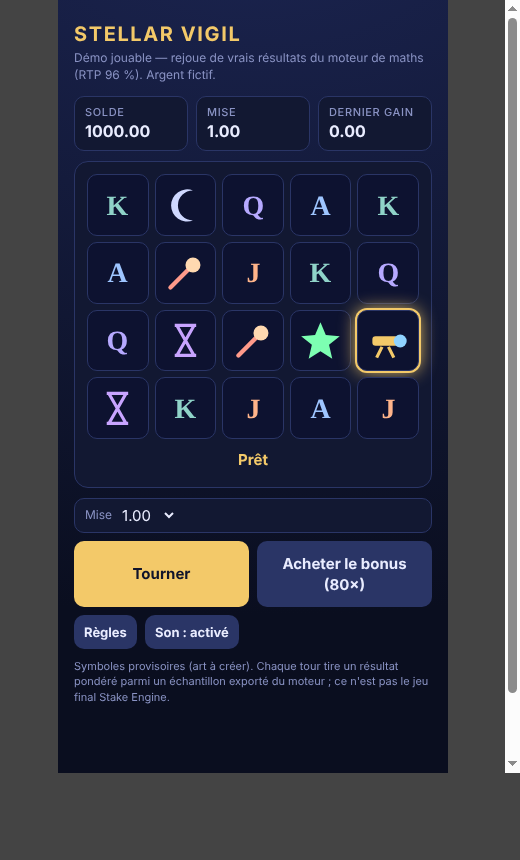
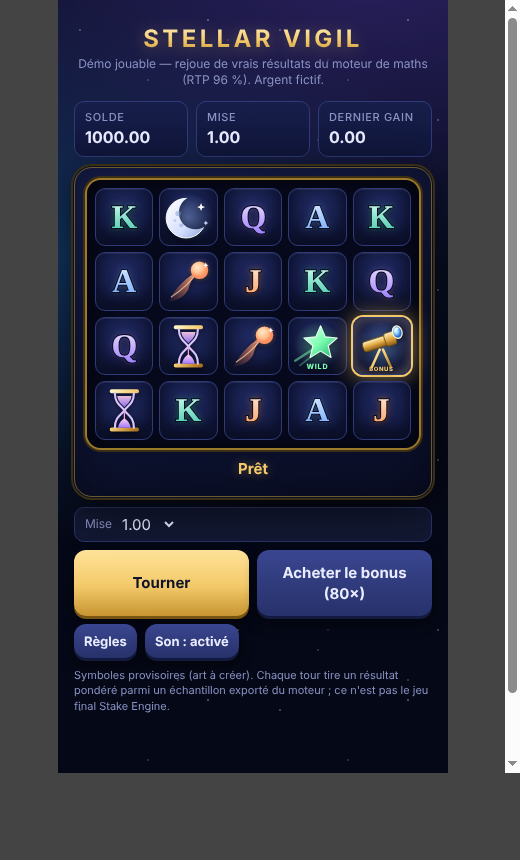
Demo: redesigned 2D art (gradient symbols, starfield, golden reel frame, drop animation, metallic wheel)
Claude-Session: https://claude.ai/code/session_01QhCfkmPEuKu1oz7J2mMLDx

Changed region(s): [[0.1231, 0.0302, 0.8615, 0.8465]]

diff --git a/demo/index.html b/demo/index.html
@@ -43,6 +43,8 @@
   .wheelbox.hidden{display:none}
   .wheelwrap{position:relative;width:min(70vw,260px);height:min(70vw,260px)}
   #wheelsvg{width:100%;height:100%;transition:transform 3.2s cubic-bezier(.12,.75,.12,1)}
+  .wheelwrap .hub{position:absolute;inset:0;width:100%;height:100%;pointer-events:none}
+  .wheelwrap{filter:drop-shadow(0 6px 18px #000c)}
   .pointer{position:absolute;left:50%;top:-10px;transform:translateX(-50%);width:0;height:0;border-left:11px solid transparent;border-right:11px solid transparent;border-top:20px solid var(--gold);filter:drop-shadow(0 0 6px var(--gold));z-index:2}
   .wheeltitle{font-weight:800;color:var(--gold);letter-spacing:.06em;text-transform:uppercase;margin-bottom:14px}
   .wheelmsg{min-height:44px;margin-top:14px;font-weight:700}
@@ -56,6 +58,32 @@
   .tools{display:flex;gap:8px;margin-top:8px}
   .tools button{flex:0 0 auto;padding:8px 12px;font-size:13px}
   html,body{max-width:100%;overflow-x:hidden}
+  body{background:radial-gradient(900px 520px at 80% -5%,#2a2160 0%,transparent 60%),radial-gradient(700px 480px at 0% 30%,#12335c 0%,transparent 60%),linear-gradient(#070b1d,#050816 70%);background-attachment:fixed}
+  body::before,body::after{content:"";position:fixed;inset:0;pointer-events:none;z-index:0;background-repeat:repeat}
+  body::before{background-image:radial-gradient(1.2px 1.2px at 22px 30px,#fff,transparent),radial-gradient(1px 1px at 90px 80px,#cfe3ff,transparent),radial-gradient(1.4px 1.4px at 150px 20px,#fff,transparent),radial-gradient(1px 1px at 60px 140px,#ffe9b0,transparent),radial-gradient(1.2px 1.2px at 180px 120px,#fff,transparent);background-size:200px 170px;opacity:.55;animation:tw 5s ease-in-out infinite alternate}
+  body::after{background-image:radial-gradient(1px 1px at 40px 60px,#fff,transparent),radial-gradient(1.6px 1.6px at 120px 110px,#bfe0ff,transparent),radial-gradient(1px 1px at 170px 40px,#fff,transparent);background-size:230px 190px;opacity:.35;animation:tw 7s ease-in-out infinite alternate-reverse}
+  @keyframes tw{from{opacity:.2}to{opacity:.75}}
+  .wrap{position:relative;z-index:1}
+  h1{font-size:24px;letter-spacing:.14em;background:linear-gradient(#fff3c4,#f3c969 55%,#b9852b);-webkit-background-clip:text;background-clip:text;color:transparent;text-shadow:none;filter:drop-shadow(0 2px 8px #f3c96955);text-align:center;margin:6px 0 0}
+  .sub{text-align:center}
+  .stage{background:linear-gradient(160deg,#171f4d 0%,#0d1230 55%,#0a0e26 100%);border:1px solid #6b5a2e;box-shadow:0 0 0 1px #0b0f25,0 0 0 3px #3a2f14,0 10px 40px #000a,inset 0 0 40px #0006;border-radius:18px}
+  #base{padding:8px;border-radius:14px;background:#06091c;box-shadow:inset 0 0 22px #000c,0 0 0 2px #9c7a2c,0 0 0 4px #3a2f14}
+  .cell{background:radial-gradient(circle at 50% 35%,#222c66 0%,#10163a 70%);border:1px solid #2f3a78;box-shadow:inset 0 1px 0 #ffffff14,inset 0 -8px 14px #0006}
+  .sky .cell{background:radial-gradient(circle at 50% 40%,#0f1a45 0%,#070a1c 75%);border-color:#1f2a5c}
+  .cell svg{filter:drop-shadow(0 2px 3px #000a);width:90%!important;height:90%!important}
+  @keyframes drop{0%{transform:translateY(-55%) scale(.9);opacity:0;filter:blur(3px)}60%{transform:translateY(6%);opacity:1;filter:blur(0)}100%{transform:none}}
+  .cell.drop svg,.cell.drop .star{animation:drop .42s cubic-bezier(.2,.8,.3,1) both;animation-delay:var(--d,0ms)}
+  .cell.win{box-shadow:0 0 0 2px var(--win),0 0 22px #7dffb2aa,inset 0 0 14px #7dffb255}
+  .cell.scat{box-shadow:0 0 0 2px var(--gold),0 0 22px #f3c969aa,inset 0 0 14px #f3c96955}
+  .star small{text-shadow:0 1px 3px #000,0 0 6px #8fd3ff}
+  .star{animation:pop .35s ease-out}
+  .star svg{filter:drop-shadow(0 0 7px #8fd3ffcc)}
+  button{background:linear-gradient(#ffe39a,#f3c969 55%,#c89532);box-shadow:0 3px 0 #7a5614,0 6px 14px #0008;border-radius:12px}
+  button.alt{background:linear-gradient(#3a4690,#27316a);box-shadow:0 3px 0 #141a3d,0 6px 14px #0008;color:#e9ecff}
+  button:active{transform:translateY(2px);box-shadow:0 1px 0 #7a5614}
+  .hud div{background:linear-gradient(#171e4a,#10163a);border-color:#2f3a78}
+  .zone{background:linear-gradient(#141b44,#0d1230)}
+  .banner{text-shadow:0 0 12px #f3c96966}
   .hud div{min-width:0}
   .hud span{font-size:16px}
   .ctl{flex-wrap:wrap}
@@ -65,6 +93,7 @@
   .zone{min-width:0;font-size:10px;padding:6px 3px}
   .zone b{font-size:12px}
   .note{overflow-wrap:anywhere}
+  .still *,.still body::before,.still body::after{animation:none!important;transition:none!important}
   .hidden{display:none}
 </style>
 </head>
@@ -87,7 +116,7 @@
     <div class="banner" id="banner">Prêt</div>
     <div class="wheelbox hidden" id="wheelbox">
       <div class="wheeltitle">Roue de sauvegarde</div>
-      <div class="wheelwrap"><div class="pointer"></div><svg id="wheelsvg" viewBox="-100 -100 200 200"></svg></div>
+      <div class="wheelwrap"><div class="pointer"></div><svg id="wheelsvg" viewBox="-100 -100 200 200"></svg><svg class="hub" viewBox="-100 -100 200 200"><defs><linearGradient id="rim" x1="0" y1="0" x2="1" y2="1"><stop offset="0" stop-color="#fff3c4"/><stop offset=".5" stop-color="#f3c969"/><stop offset="1" stop-color="#8a5a14"/></linearGradient></defs><circle r="98" fill="none" stroke="url(#rim)" stroke-width="6"/><circle r="94" fill="none" stroke="#3a2f14" stroke-width="1.5"/><circle r="15" fill="url(#rim)" stroke="#3a2f14" stroke-width="2"/><circle r="5" fill="#3a2f14"/></svg></div>
       <div class="wheelmsg" id="wheelmsg"></div>
     </div>
   </div>
@@ -123,18 +152,36 @@
 </div></div>
 <script src="books.js"></script>
 <script>
+try{if(new URLSearchParams(location.search).get('still'))document.documentElement.classList.add('still')}catch(e){}
 const $=id=>document.getElementById(id), sleep=ms=>new Promise(r=>setTimeout(r,ms));
 const COL=['#f3c969','#9ec5ff','#ff9a8a','#c8a4ff'];
+const GOLD='<linearGradient id="gold" x1="0" y1="0" x2="1" y2="1"><stop offset="0" stop-color="#fff3c4"/><stop offset=".5" stop-color="#f3c969"/><stop offset="1" stop-color="#a8721c"/></linearGradient>';
+const svg=(body,defs='')=>`<svg viewBox="0 0 64 64"><defs>${GOLD}${defs}</defs>${body}</svg>`;
 const SYM={
- H1:()=>`<svg viewBox="0 0 40 40"><circle cx="20" cy="20" r="15" fill="none" stroke="#f3c969" stroke-width="2.5"/><circle cx="20" cy="20" r="8" fill="none" stroke="#f3c969" stroke-width="1.5"/><path d="M20 5v30M5 20h30" stroke="#f3c969" stroke-width="1.5"/></svg>`,
- H2:()=>`<svg viewBox="0 0 40 40"><path d="M27 6a15 15 0 1 0 0 28 12 12 0 1 1 0-28z" fill="#cfd8ff"/></svg>`,
- H3:()=>`<svg viewBox="0 0 40 40"><path d="M6 34L26 14" stroke="#ff9a8a" stroke-width="4" stroke-linecap="round"/><circle cx="27" cy="13" r="7" fill="#ffd9b0"/></svg>`,
- H4:()=>`<svg viewBox="0 0 40 40"><path d="M10 6h20M10 34h20M12 6l16 28M28 6L12 34" fill="none" stroke="#c8a4ff" stroke-width="3"/></svg>`,
- W:()=>`<svg viewBox="0 0 40 40"><path d="M20 3l5 12 13 1-10 8 3 13-11-7-11 7 3-13-10-8 13-1z" fill="#7dffb2"/></svg>`,
- S:()=>`<svg viewBox="0 0 40 40"><rect x="5" y="16" width="24" height="9" rx="3" fill="#f3c969"/><circle cx="31" cy="20.5" r="6" fill="#8fd3ff"/><path d="M14 26l-5 10M20 26l5 10" stroke="#f3c969" stroke-width="3"/></svg>`,
+ // H1 Astrolabe: laiton, anneaux gradués, aiguille
+ H1:()=>svg(`<circle cx="32" cy="32" r="31" fill="url(#glowG)"/><circle cx="32" cy="32" r="25" fill="#0f1536" stroke="url(#gold)" stroke-width="3.4"/><circle cx="32" cy="32" r="19" fill="none" stroke="url(#gold)" stroke-width="1.6" stroke-dasharray="1.6 3.2"/><circle cx="32" cy="32" r="12" fill="none" stroke="url(#gold)" stroke-width="2.2"/><path d="M32 5v9M32 50v9M5 32h9M50 32h9" stroke="url(#gold)" stroke-width="3.4" stroke-linecap="round"/><path d="M32 32L45 19" stroke="#fff3c4" stroke-width="2.6" stroke-linecap="round"/><path d="M32 32L22 40" stroke="#f3c969" stroke-width="2" stroke-linecap="round"/><circle cx="32" cy="32" r="3.6" fill="#fff3c4" stroke="#a8721c" stroke-width="1"/>`,
+   '<radialGradient id="glowG"><stop offset="0" stop-color="#f3c969" stop-opacity=".38"/><stop offset="1" stop-color="#f3c969" stop-opacity="0"/></radialGradient>'),
+ // H2 Lune
+ H2:()=>svg(`<circle cx="32" cy="32" r="31" fill="url(#glowM)"/><circle cx="29" cy="33" r="25" mask="url(#cut)" fill="url(#moon)" stroke="#ffffff" stroke-width="1.2"/><circle cx="19" cy="27" r="3.4" fill="#8da2d3" opacity=".55"/><circle cx="23" cy="42" r="2.6" fill="#8da2d3" opacity=".5"/><circle cx="15" cy="36" r="1.8" fill="#8da2d3" opacity=".45"/><path d="M48 14l1.4 3.6 3.6 1.4-3.6 1.4L48 24l-1.4-3.6-3.6-1.4 3.6-1.4z" fill="#fff"/><path d="M54 36l.9 2.2 2.2.9-2.2.9-.9 2.2-.9-2.2-2.2-.9 2.2-.9z" fill="#cfe0ff"/>`,
+   '<mask id="cut"><rect width="64" height="64" fill="#fff"/><circle cx="41" cy="26" r="21" fill="#000"/></mask><linearGradient id="moon" x1="0" y1="0" x2="1" y2="1"><stop offset="0" stop-color="#ffffff"/><stop offset=".6" stop-color="#d6e1ff"/><stop offset="1" stop-color="#8aa0d6"/></linearGradient><radialGradient id="glowM"><stop offset="0" stop-color="#9ec5ff" stop-opacity=".4"/><stop offset="1" stop-color="#9ec5ff" stop-opacity="0"/></radialGradient>'),
+ // H3 Comète
+ H3:()=>svg(`<path d="M6 58C16 40 30 26 46 18c-6 6-12 14-14 24-4 8-12 14-26 16z" fill="url(#tail)"/><path d="M10 52c12-8 24-18 34-32" stroke="#ffd9a8" stroke-width="1.4" fill="none" opacity=".7"/><circle cx="46" cy="18" r="11" fill="url(#head)"/><circle cx="46" cy="18" r="16" fill="url(#glowC)"/><path d="M54 8l1 2.6 2.6 1-2.6 1-1 2.6-1-2.6-2.6-1 2.6-1z" fill="#fff"/>`,
+   '<linearGradient id="tail" x1="0" y1="1" x2="1" y2="0"><stop offset="0" stop-color="#ff7a59" stop-opacity="0"/><stop offset=".7" stop-color="#ff9a6b" stop-opacity=".7"/><stop offset="1" stop-color="#ffe0b0"/></linearGradient><radialGradient id="head" cx=".4" cy=".35"><stop offset="0" stop-color="#ffffff"/><stop offset=".5" stop-color="#ffd9a8"/><stop offset="1" stop-color="#ff8a5c"/></radialGradient><radialGradient id="glowC"><stop offset="0" stop-color="#ffb27a" stop-opacity=".45"/><stop offset="1" stop-color="#ffb27a" stop-opacity="0"/></radialGradient>'),
+ // H4 Sablier
+ H4:()=>svg(`<path d="M16 8h32M16 56h32" stroke="url(#gold)" stroke-width="5" stroke-linecap="round"/><path d="M20 10c0 14 8 16 12 22-4 6-12 8-12 22M44 10c0 14-8 16-12 22 4 6 12 8 12 22" fill="none" stroke="#d9c8ff" stroke-width="2.6" stroke-linecap="round"/><path d="M23 14h18c-1 7-5 10-9 14-4-4-8-7-9-14z" fill="url(#sand)" opacity=".9"/><path d="M32 32v12" stroke="#ff9bd6" stroke-width="1.6"/><path d="M24 54c1-6 4-9 8-12 4 3 7 6 8 12z" fill="url(#sand)"/>`,
+   '<linearGradient id="sand" x1="0" y1="0" x2="0" y2="1"><stop offset="0" stop-color="#ffd1f0"/><stop offset="1" stop-color="#a077ff"/></linearGradient>'),
+ // Wild : étoile filante émeraude
+ W:()=>svg(`<circle cx="32" cy="30" r="29" fill="url(#glowW)"/><path d="M4 50L26 36" stroke="#7dffb2" stroke-width="3" stroke-linecap="round" opacity=".5"/><path d="M10 56L28 42" stroke="#7dffb2" stroke-width="2" stroke-linecap="round" opacity=".35"/><path d="M36 6l6 14 15 1.4-11.4 9.8 3.6 14.8L36 38l-13.2 8 3.6-14.8L15 21.4 30 20z" fill="url(#emer)" stroke="#eafff3" stroke-width="1.4" stroke-linejoin="round"/><text x="32" y="60" text-anchor="middle" font-size="9" font-weight="800" fill="#7dffb2" font-family="system-ui,sans-serif" letter-spacing="1">WILD</text>`,
+   '<linearGradient id="emer" x1="0" y1="0" x2="1" y2="1"><stop offset="0" stop-color="#eafff3"/><stop offset=".5" stop-color="#7dffb2"/><stop offset="1" stop-color="#18a86a"/></linearGradient><radialGradient id="glowW"><stop offset="0" stop-color="#7dffb2" stop-opacity=".4"/><stop offset="1" stop-color="#7dffb2" stop-opacity="0"/></radialGradient>'),
+ // Scatter : lunette
+ S:()=>svg(`<circle cx="32" cy="32" r="31" fill="url(#glowS)"/><path d="M20 58L30 36M44 58L34 36" stroke="url(#gold)" stroke-width="3.2" stroke-linecap="round"/><rect x="8" y="22" width="34" height="13" rx="4" transform="rotate(-18 25 28)" fill="url(#brass)" stroke="#6d4a14" stroke-width="1"/><rect x="36" y="14" width="14" height="17" rx="3.5" transform="rotate(-18 43 22)" fill="url(#brass)" stroke="#6d4a14" stroke-width="1"/><ellipse cx="52" cy="14" rx="6" ry="8" transform="rotate(-18 52 14)" fill="url(#lens)" stroke="#fff3c4" stroke-width="1.6"/><path d="M50 10l3-1" stroke="#fff" stroke-width="1.6" stroke-linecap="round"/><text x="32" y="63" text-anchor="middle" font-size="7.5" font-weight="800" fill="#f3c969" font-family="system-ui,sans-serif" letter-spacing=".8">BONUS</text>`,
+   '<linearGradient id="brass" x1="0" y1="0" x2="0" y2="1"><stop offset="0" stop-color="#fff3c4"/><stop offset=".5" stop-color="#e2ab45"/><stop offset="1" stop-color="#8a5a14"/></linearGradient><radialGradient id="lens" cx=".4" cy=".35"><stop offset="0" stop-color="#ffffff"/><stop offset=".5" stop-color="#8fd3ff"/><stop offset="1" stop-color="#2b6fd6"/></radialGradient><radialGradient id="glowS"><stop offset="0" stop-color="#8fd3ff" stop-opacity=".38"/><stop offset="1" stop-color="#8fd3ff" stop-opacity="0"/></radialGradient>'),
 };
-['A','K','Q','J'].forEach((t,i)=>{SYM['L'+(i+1)]=()=>`<svg viewBox="0 0 40 40"><text x="20" y="29" text-anchor="middle" font-size="26" font-weight="800" fill="${['#9ec5ff','#8fd3c8','#b6a9ff','#ffb48a'][i]}" font-family="Georgia,serif">${t}</text></svg>`});
-const starSvg=`<svg viewBox="0 0 40 40"><path d="M20 3l5 12 13 1-10 8 3 13-11-7-11 7 3-13-10-8 13-1z" fill="#8fd3ff"/></svg>`;
+// Bas niveau : lettres gravées avec dégradé
+const LETTER=(t,c1,c2)=>svg(`<text x="32" y="46" text-anchor="middle" font-size="42" font-weight="800" font-family="Georgia,'Times New Roman',serif" fill="url(#lt${t})" stroke="#050818" stroke-width="2.2" paint-order="stroke" style="filter:drop-shadow(0 0 4px ${c2}66)">${t}</text>`,
+  `<linearGradient id="lt${t}" x1="0" y1="0" x2="0" y2="1"><stop offset="0" stop-color="${c1}"/><stop offset="1" stop-color="${c2}"/></linearGradient>`);
+SYM.L1=()=>LETTER('A','#e1efff','#6fa8ff'); SYM.L2=()=>LETTER('K','#dcfff6','#3fc7a8'); SYM.L3=()=>LETTER('Q','#efe6ff','#9a7dff'); SYM.L4=()=>LETTER('J','#fff0dd','#ff9a5c');
+const starSvg=`<svg viewBox="0 0 40 40"><defs><linearGradient id="stg" x1="0" y1="0" x2="1" y2="1"><stop offset="0" stop-color="#ffffff"/><stop offset=".5" stop-color="#8fd3ff"/><stop offset="1" stop-color="#3a86e0"/></linearGradient></defs><path d="M20 2l5.4 12.6L39 16l-10.4 8.6 3.4 13.4L20 30l-12 8 3.4-13.4L1 16l13.6-1.4z" fill="url(#stg)" stroke="#eaf6ff" stroke-width="1" stroke-linejoin="round"/><path d="M20 2v28M1 16l38 0" stroke="#ffffff" stroke-opacity=".25" stroke-width="1"/></svg>`;
 const fmt=c=>(c/100).toFixed(2);
 let bal=1000, busy=false;
 // --- Sons synthétisés (aucun fichier audio) ---
@@ -167,7 +214,7 @@ function buildSky(){const s=$('sky');s.innerHTML='';for(let r=0;r<5;r++)for(let 
   $('links').innerHTML='';
   $('zones').innerHTML=ZONES.map(z=>`<div class="zone" id="z${z[0]}"><b>${z[2]}×</b>${z[0]}<br>${z[1]}</div>`).join('')}
 function show(board){ // board[reel] has 6 entries: pad,4 visible,pad
-  for(let c=0;c<5;c++)for(let r=0;r<4;r++){const el=$(`b${c}_${r}`);const s=board[c][r+1];el.className='cell'+(s.scatter?' scat':'');el.innerHTML=s.name==='ST'?`<div class="star">${starSvg}<small>${s.prize}×</small></div>`:(SYM[s.name]||(()=>''))()}}
+  for(let c=0;c<5;c++)for(let r=0;r<4;r++){const el=$(`b${c}_${r}`);const s=board[c][r+1];el.className='cell drop'+(s.scatter?' scat':'');el.style.setProperty('--d',c*70+'ms');el.innerHTML=s.name==='ST'?`<div class="star">${starSvg}<small>${s.prize}×</small></div>`:(SYM[s.name]||(()=>''))()}}
 function view(sky){$('base').classList.toggle('hidden',sky);$('skywrap').classList.toggle('hidden',!sky);$('zones').classList.toggle('hidden',!sky)}
 function banner(t){$('banner').textContent=t}
 
@@ -188,7 +235,7 @@ async function spinWheel(e){
   const n=e.segments.length, svg=$('wheelsvg'), box=$('wheelbox'), msg=$('wheelmsg');
   svg.style.transition='none'; svg.style.transform='rotate(0deg)';
   svg.innerHTML=e.segments.map((t,i)=>{const mid=((i+.5)*360/n-90)*Math.PI/180, lx=62*Math.cos(mid), ly=62*Math.sin(mid), saved=t==='saved';
-    return `<path d="${wheelPath(i,n,96)}" fill="${saved?'#f3c969':(i%2?'#1a2350':'#232d63')}" stroke="#0a0e1f" stroke-width="2"/>`+
+    return `<path d="${wheelPath(i,n,96)}" fill="${saved?'url(#rim)':(i%2?'#18204f':'#242f6a')}" stroke="#0a0e1f" stroke-width="2"/>`+
       `<text x="${lx.toFixed(1)}" y="${ly.toFixed(1)}" text-anchor="middle" dominant-baseline="middle" font-size="${saved?9:8}" font-weight="800" fill="${saved?'#10142b':'#8a93c4'}" transform="rotate(${((i+.5)*360/n).toFixed(1)} ${lx.toFixed(1)} ${ly.toFixed(1)})">${saved?'SAUVÉE':'—'}</text>`}).join('');
   msg.textContent=`Total du bonus sous ${(e.floor/100).toFixed(0)}× : la roue peut le relever à ${(e.floor/100).toFixed(0)}×`;
   box.classList.remove('hidden'); await sleep(900);
